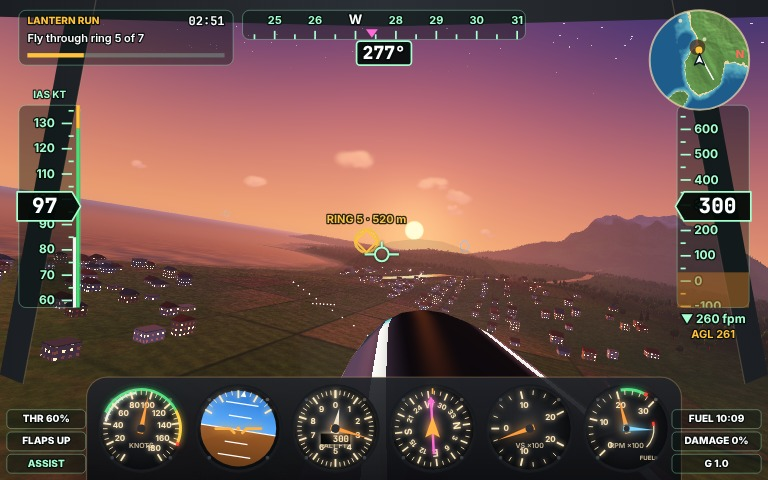
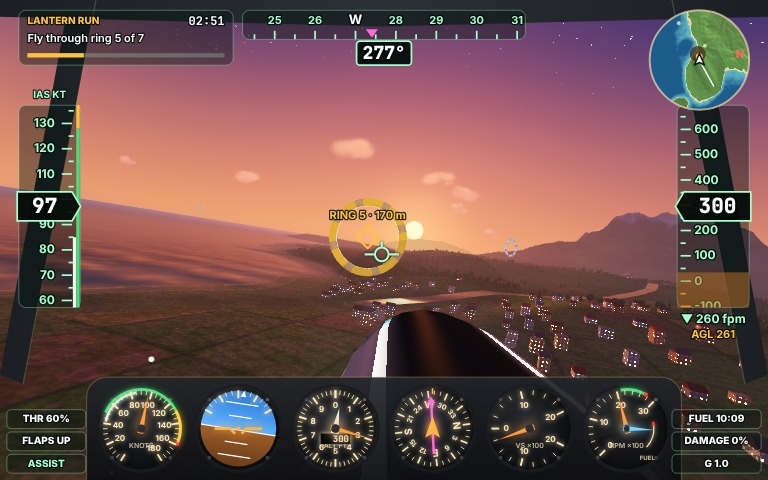
Banded gold course gates, closer dusk cockpit ring and squall runway framing
Claude-Session: https://claude.ai/code/session_013aFgNxawAtzCzATrD7uXbz

diff --git a/game/src/render/ring-renderer.js b/game/src/render/ring-renderer.js
@@ -1,11 +1,11 @@
-// Target rings: glowing hoops along a course. The next ring burns gold with orbiting beacons,
+// Target rings: banded hoops along a course. The next ring burns gold with orbiting beacons,
 // later ones glow pale, cleared ones turn green and fade.
-import { MeshBuilder, MATTE } from './mesh-builder.js';
+import { MeshBuilder, MATTE, BANDED } from './mesh-builder.js';
 import { uploadMesh, drawMesh } from './mesh-renderer.js';
 import { mat4FromPose, quatFromAttitude } from '../core/vector-math.js';
 
 export function createRingRenderer(gl, program) {
-  const hoop = uploadMesh(gl, new MeshBuilder().torus(1, 0.11, 48, 10, [0.95, 0.9, 0.8, MATTE]).build());
+  const hoop = uploadMesh(gl, new MeshBuilder().torus(1, 0.11, 64, 12, [0.95, 0.9, 0.8, BANDED]).build());
   const inner = uploadMesh(gl, new MeshBuilder().torus(0.9, 0.018, 48, 4, [1, 1, 1, MATTE]).build());
 
   const poseOf = (ring) => mat4FromPose(quatFromAttitude((ring.heading * Math.PI) / 180, (ring.pitch ?? 0) * Math.PI / 180, 0), ring.position, ring.radius);
@@ -21,7 +21,7 @@ export function createRingRenderer(gl, program) {
           return;
         }
         if (i === nextIndex) {
-          drawMesh(gl, program, hoop, { model, tint: [1, 0.74, 0.22], emissive: [0.75 * pulse, 0.36 * pulse, 0.05] });
+          drawMesh(gl, program, hoop, { model, tint: [1, 0.7, 0.16], emissive: [0.5 * pulse, 0.24 * pulse, 0.03] });
           drawMesh(gl, program, inner, { model, tint: [1, 1, 1], emissive: [0.9, 0.7, 0.3] });
         } else if (i < nextIndex + 4) {
           drawMesh(gl, program, hoop, { model, tint: [0.85, 0.92, 1], emissive: [0.25, 0.32, 0.45] });

diff --git a/game/src/shots/shot-scenes.js b/game/src/shots/shot-scenes.js
@@ -96,7 +96,7 @@ const SHOTS = {
     st.nextRing = 4;
     st.cleared = 4;
     st.elapsed = 171;
-    const at = approachTo(st.rings, 4, 520, 4);
+    const at = approachTo(st.rings, 4, 170, 4);
     pose(api.game.plane, at, headingBetween(at, st.rings[4].position) + 3, 1, -9, 50, 0.6, 0);
     api.game.plane.landingLight = true;
     api.game.time = 91.4;
@@ -154,7 +154,7 @@ const SHOTS = {
     const field = AIRFIELDS[0];
     const end = runwayEnds(field)[1];
     const h = end.heading * DEG;
-    const d = 280;
+    const d = 150;
     const at = [end.x - Math.sin(h) * d + Math.cos(h) * 4, field.elevation + (300 + d) * Math.tan(3 * DEG) + 1.5, end.z + Math.cos(h) * d + Math.sin(h) * 4];
     const plane = api.game.plane;
     pose(plane, at, end.heading + 9, 1.5, 4, 34, 0.3, 2);
@@ -162,8 +162,8 @@ const SHOTS = {
     api.game.time = 26.6;
     const forward = [Math.sin(h), 0, -Math.cos(h)];
     const right = [Math.cos(h), 0, Math.sin(h)];
-    const eye = [0, 1, 2].map((i) => plane.position[i] - forward[i] * 15 + right[i] * 3 + (i === 1 ? 4.6 : 0));
-    const target = [end.x + forward[0] * 230, field.elevation + 4, end.z + forward[2] * 230];
+    const eye = [0, 1, 2].map((i) => plane.position[i] - forward[i] * 20 + right[i] * 3.5 + (i === 1 ? 5.6 : 0));
+    const target = [end.x + forward[0] * 170, field.elevation + 2, end.z + forward[2] * 170];
     api.rig.mode = 'chase';
     api.rig.override = { eye, target, up: [0, 1, 0], fov: 56 };
   },

diff --git a/game/src/render/shaders.js b/game/src/render/shaders.js
@@ -318,8 +318,13 @@ void main() {
   float material = vColor.a;
   vec3 base = vColor.rgb * uTint;
   if (vSeed > 0.0) base *= 0.8 + 0.4 * fract(vSeed * 7.31);
+  float band = 0.0;
+  if (material > 4.5) {
+    band = step(0.72, fract(atan(vLocal.y, vLocal.x) * 1.2732395 + 0.36));
+    base = mix(base, vec3(0.97, 0.96, 0.92), band * 0.9);
+  }
   vec3 albedo = toLinear(base);
-  float shine = material > 2.5 ? (material > 3.5 ? 1.6 : 0.7) : 0.04;
+  float shine = material > 4.5 ? 0.7 : material > 2.5 ? (material > 3.5 ? 1.6 : 0.7) : 0.04;
   vec3 color = litSurface(albedo, n, vWorld, shine);
   if (material > 0.5 && material < 1.5) {
     vec3 q = vLocal * vScale;
@@ -332,7 +337,7 @@ void main() {
     color += window * lit * uNight * toLinear(vec3(1.0, 0.8, 0.48)) * 1.8;
   }
   if (material > 1.5 && material < 2.5) color = albedo * 2.4;
-  color += uEmissive;
+  color += uEmissive * (1.0 - band * 0.6);
   outColor = vec4(toDisplay(applyFog(color, vWorld)), uAlpha);
 }`;
 

diff --git a/game/src/render/mesh-builder.js b/game/src/render/mesh-builder.js
@@ -1,5 +1,6 @@
 // Procedural mesh construction: boxes, prisms, cylinders, cones, tori and lofted hulls with
-// per-vertex colour and a material id (0 matte, 1 windowed wall, 2 self-lit, 3 gloss paint, 4 glass).
+// per-vertex colour and a material id (0 matte, 1 windowed wall, 2 self-lit, 3 gloss paint, 4 glass,
+// 5 banded gloss paint: alternating colour and white bands around the local Z axis, for course gates).
 import { cross, sub, normalize, quatRotate, add } from '../core/vector-math.js';
 
 export const MATTE = 0;
@@ -7,6 +8,7 @@ export const WINDOWED = 1;
 export const GLOW = 2;
 export const GLOSS = 3;
 export const GLASS = 4;
+export const BANDED = 5;
 
 export class MeshBuilder {
   constructor() {
